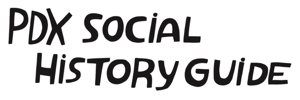
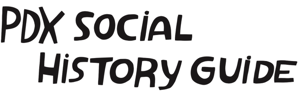
Layout tweaks to static page app title

Changed region(s): [[0.09, 0.51, 1.0, 0.93], [0.0, 0.06, 0.69, 0.45]]

diff --git a/knowYourCity/Classes/SHGStaticPageViewController.m b/knowYourCity/Classes/SHGStaticPageViewController.m
@@ -41,7 +41,7 @@
     
     self.view.backgroundColor = [UIColor whiteColor];
     
-    CGFloat yForNextView = 30.0; // 70.0 if pushed on nav stack
+    CGFloat yForNextView = 25.0; // 70.0 if pushed on nav stack
     
     self.closeButton = [UIButton buttonWithType:UIButtonTypeCustom];
     
@@ -81,7 +81,7 @@
     
     yForNextView += self.appNameImageView.frame.size.height; // was adding 5
     
-    self.appCreditLabel = [[UILabel alloc] initWithFrame:CGRectMake(10.0, yForNextView, 290.0, 21.0)];
+    self.appCreditLabel = [[UILabel alloc] initWithFrame:CGRectMake(10.0, yForNextView, 298.0, 21.0)];
     self.appCreditLabel.text = @"Brought to you by Know Your City";
     self.appCreditLabel.font = [UIFont fontWithName:kBodyFontName size:18.0];
     self.appCreditLabel.textColor = [UIColor kycGray];
@@ -89,7 +89,7 @@
     
     [self.view addSubview:self.appCreditLabel];
     
-    yForNextView += self.appCreditLabel.frame.size.height + 10.0; // 5 seemed too close
+    yForNextView += self.appCreditLabel.frame.size.height + 15.0; // 10 seemed too close
     
     // makse sure close button is on top:
     [self.view bringSubviewToFront:self.closeButton];
